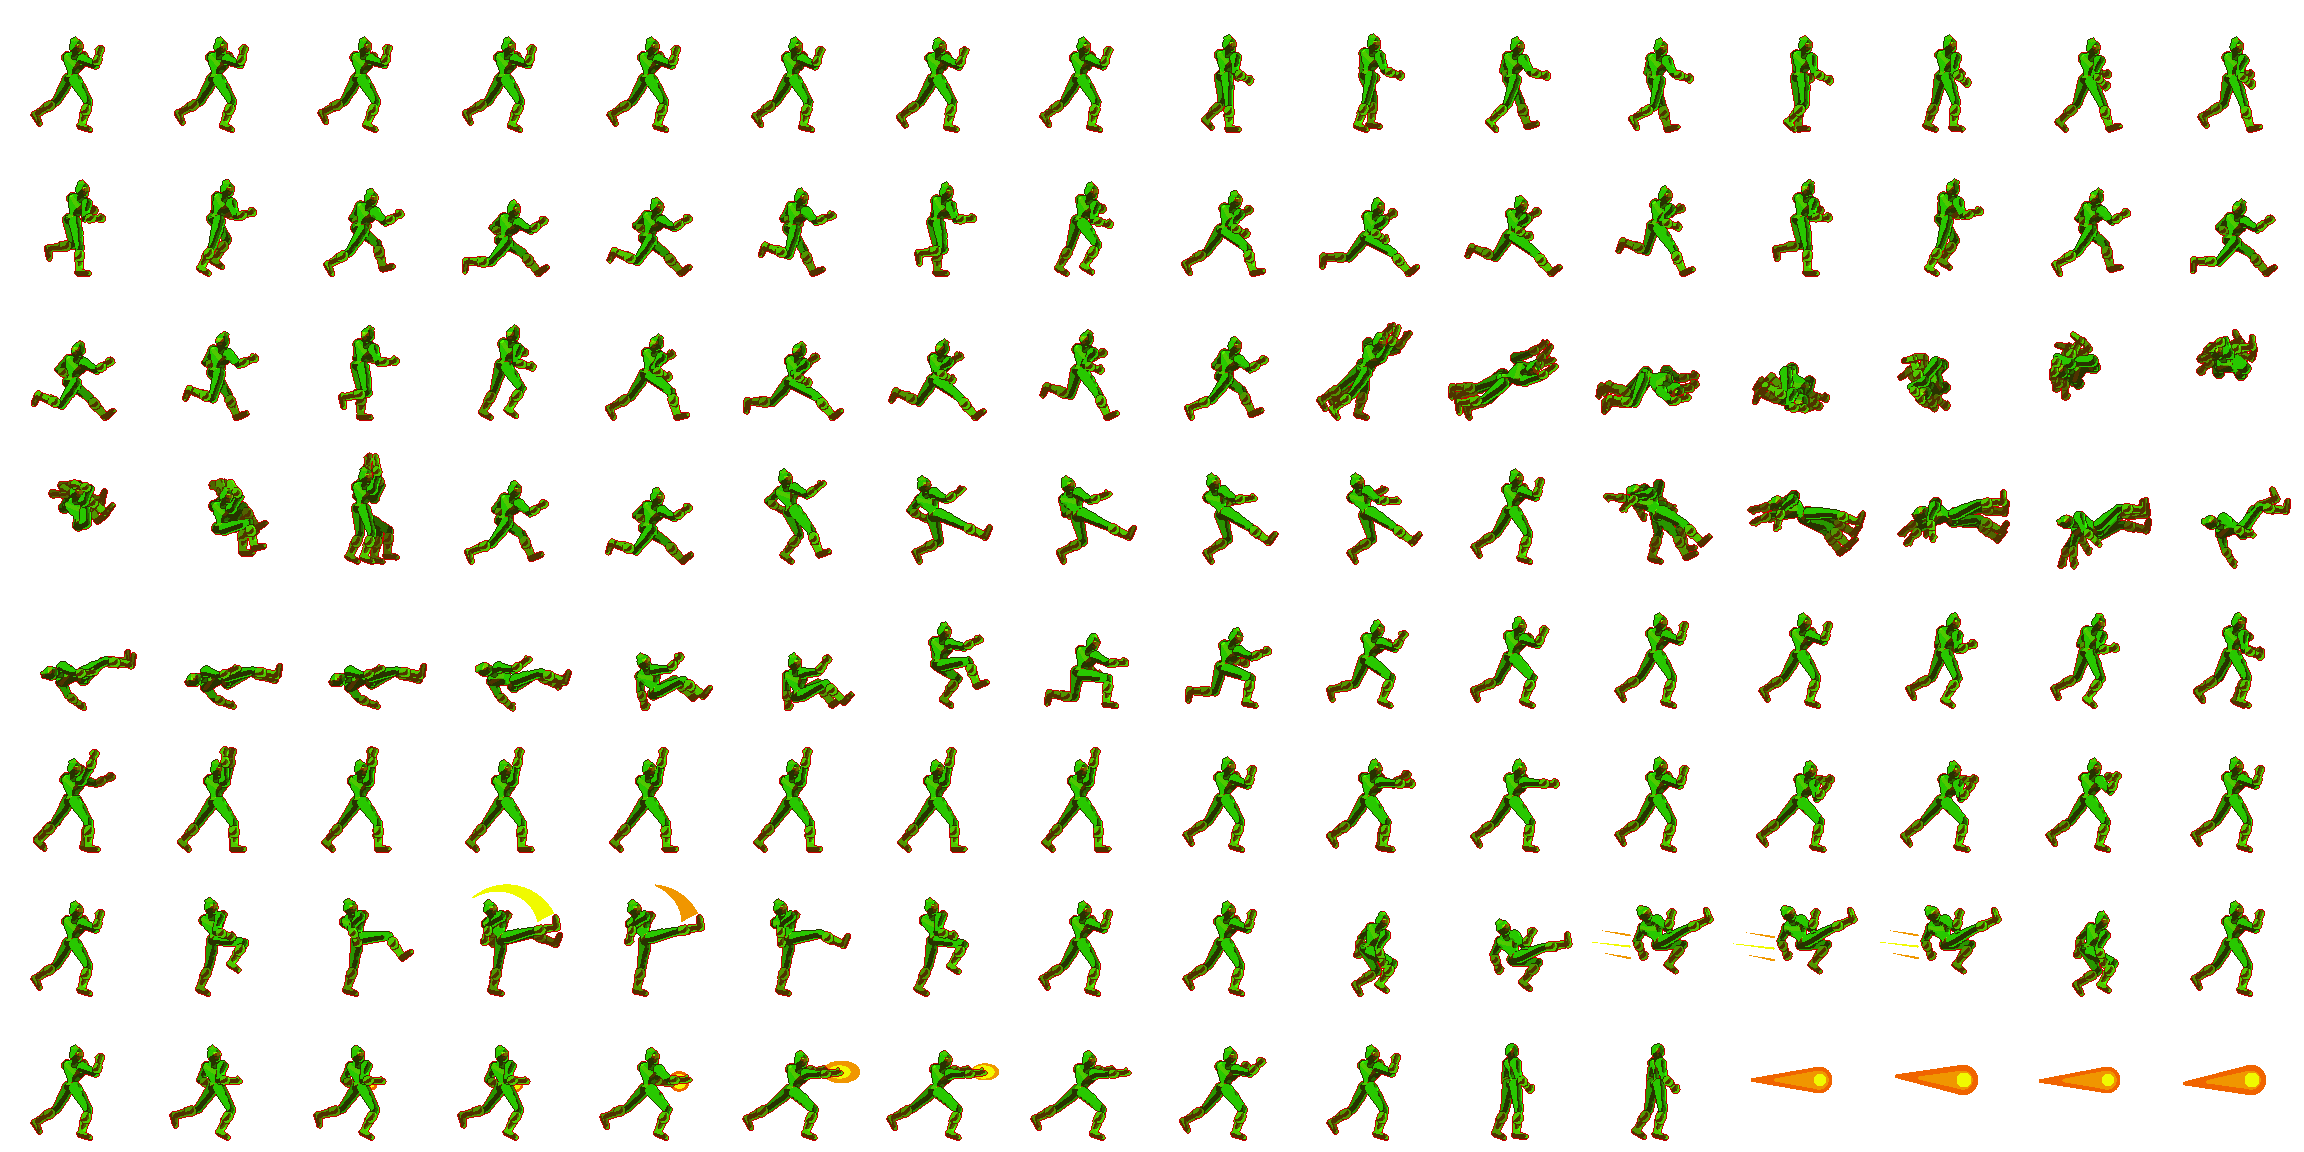
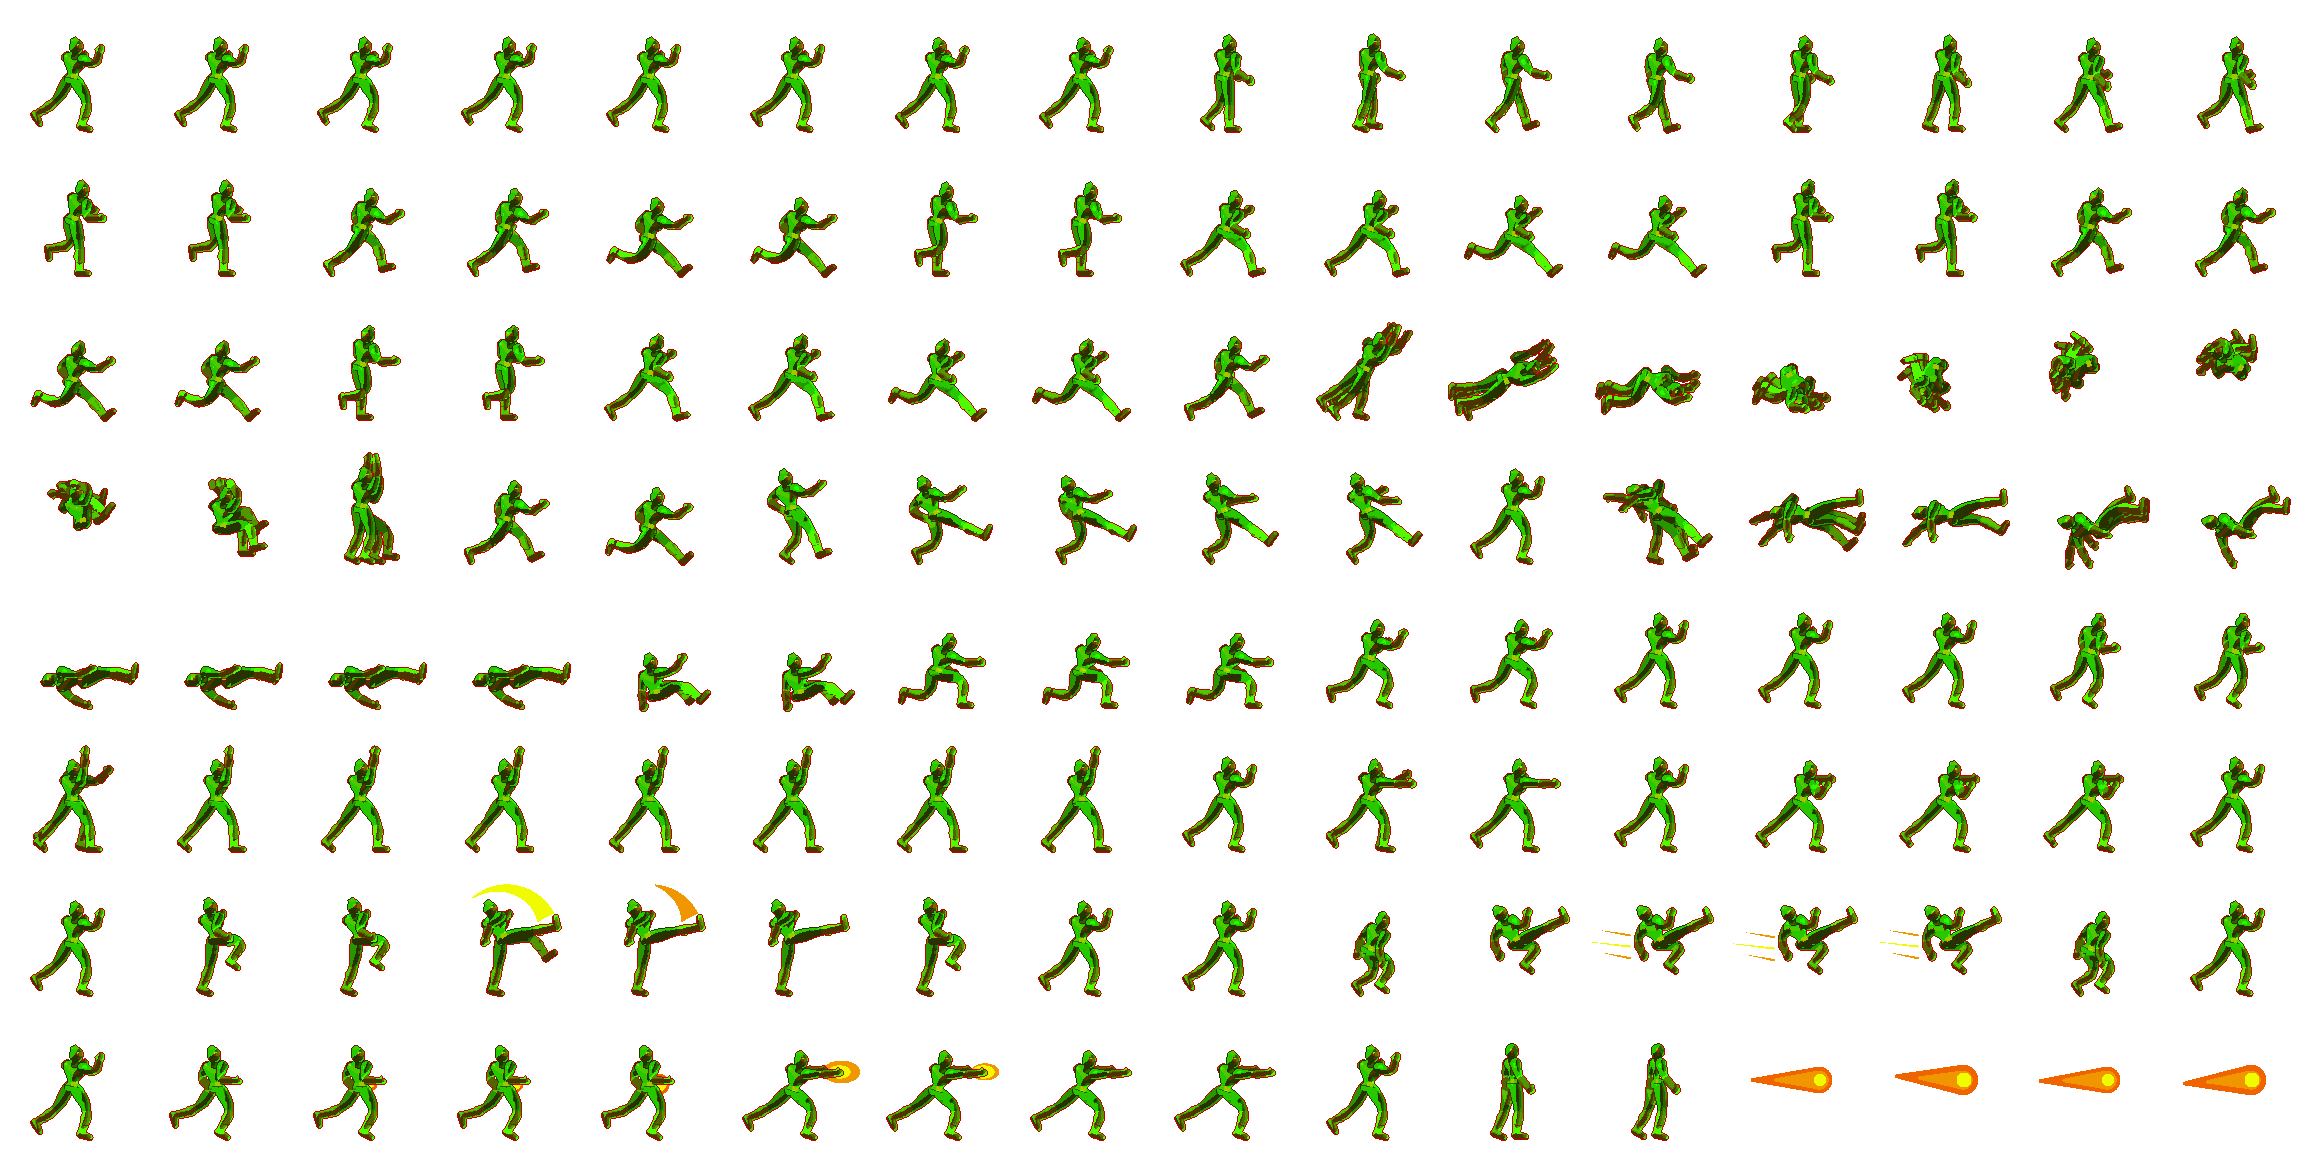
fix(effects): eroi a forma continua e fotogrammi tenuti, primo passo contro l'effetto "a blocchi"
Solo i tre fogli degli eroi (toku-hero-0/1/2.png); robot, kaiju, mano e
piede non sono toccati da questo commit.

- Ogni arto e' un'unica forma che si gonfia e si assottiglia (deltoide,
  bicipite, gomito, avambraccio; coscia, ginocchio, polpaccio, caviglia)
  lungo una linea arrotondata all'articolazione, non piu' due capsule
  incernierate.
- Busto e gamba vicina sono un solo contorno, dipinto una volta sola:
  niente piu' giunta fra bacino e coscia. Pettorali, addome e quadricipite
  sono modellati nel chiaroscuro. Stivali e guanti sono posati sulla
  forma (cambio di materiale, risvolto, suola) senza spezzarla.
- Niente piu' fotogrammi interpolati: pugni, calci, colpo d'energia,
  caduta, rialzata e posa usano il disegno chiave piu' vicino e lo
  tengono; corsa a 6 disegni tenuti due volte, attesa a 4. Gli indici dei
  fogli non cambiano, quindi gli shader restano uguali.

Limite dichiarato: le pose nascono ancora da uno scheletro per fotogramma
chiave. I contorni disegnati a mano posa per posa (bezier per ogni
fotogramma) richiesti dall'utente non sono ancora fatti.

diff --git a/scripts/gen-toku-sprites.py b/scripts/gen-toku-sprites.py
@@ -310,6 +310,11 @@ def keys(ks, t, f=ease):
     return ks[-1][1]
 
 
+def held(ks, t):
+    """The key drawing nearest in time: a frame is a pose that was drawn, never a blend of two."""
+    return min(ks, key=lambda k: abs(k[0] - t))[1]
+
+
 def run_pose(ph, look=1.0, amp=1.0):
     """Sprint (amp 1) or walk (amp ~0.45): contact, down, passing, up."""
     a, b = ph, ph + math.pi
@@ -430,46 +435,100 @@ def joints(p):
     return j
 
 
-def draw_leg(cv, j, s, dim):
+def tube(cv, pts, prof):
+    """A limb drawn as one form, not as two sticks hinged together: the line through pts is rounded at the
+    joint and the flesh follows prof (pairs of position 0..1 along it, half-width), so it swells and tapers."""
+    pts = [np.asarray(q, float) for q in pts]
+    for _ in range(2):
+        q = [pts[0]]
+        for a, b in zip(pts, pts[1:]):
+            q += [0.75 * a + 0.25 * b, 0.25 * a + 0.75 * b]
+        pts = q + [pts[-1]]
+    seg = [float(np.linalg.norm(b - a)) for a, b in zip(pts, pts[1:])]
+    ts = np.concatenate([[0.0], np.cumsum(seg)]) / max(sum(seg), 1e-6)
+    w = np.interp(ts, [t for t, _ in prof], [r for _, r in prof])
+    for k in range(len(pts) - 1):
+        if seg[k] > 1e-9:
+            cv.cap(pts[k], pts[k + 1], w[k], w[k + 1])
+    return cv
+
+
+LEG_W = [(0.0, 0.056), (0.13, 0.064), (0.32, 0.055), (0.47, 0.041), (0.53, 0.04), (0.66, 0.048), (0.84, 0.04), (1.0, 0.037)]   # thigh, knee, calf, ankle
+ARM_W = [(0.0, 0.05), (0.14, 0.05), (0.3, 0.041), (0.47, 0.033), (0.56, 0.034), (0.7, 0.04), (0.92, 0.033), (1.0, 0.033)]      # deltoid, biceps, elbow, forearm, wrist
+
+
+def leg_shape(cv, j, s):
+    """Adds a whole leg to the outline being drawn: thigh to toe, one line."""
     hip, kn, an, toe = j["hip" + s], j["kn" + s], j["an" + s], j["toe" + s]
     sd = unit(an - kn)
-    bk = np.array([sd[1], -sd[0]])                 # the back of the leg
-    th = unit(kn - hip)
-    mid = kn + sd * 0.085
-    cv.begin().cap(hip, kn, 0.062, 0.041).ell(hip + th * 0.1 - np.array([th[1], -th[0]]) * 0.01, 0.085, 0.05, math.atan2(th[1], th[0]))
-    cv.cap(kn, mid, 0.041, 0.038)
-    cv.paint(cv.mask(), SUIT, gloss=0.4, sig=5.5, dim=dim)
-    # boot: a chunky shaft with a calf, a turned-over cuff, a heel, a long foot, a dark sole
+    bk = np.array([sd[1], -sd[0]])
+    ft = unit(toe - an)
+    tube(cv, [hip, kn + bk * -0.006, an], LEG_W)
+    cv.disc(kn + sd * 0.1 + bk * 0.012, 0.04)                                     # the calf, behind
+    cv.cap(kn + sd * 0.078, kn + sd * 0.096, 0.049, 0.048)                        # the turned-over top of the boot
+    cv.disc(an + bk * 0.006, 0.039).cap(an + ft * 0.01, toe, 0.037, 0.028)
+    return cv
+
+
+def leg_trim(cv, j, s, lm):
+    """What the leg wears, laid over the form without breaking it: the boot, its cuff, its sole, the knee."""
+    hip, kn, an, toe = j["hip" + s], j["kn" + s], j["an" + s], j["toe" + s]
+    sd = unit(an - kn)
     ft = unit(toe - an)
     fn = np.array([ft[1], -ft[0]])
     if fn[1] > 0:
         fn = -fn
-    cv.begin().cap(mid, an, 0.044, 0.033).disc(mid + sd * 0.045 + bk * 0.012, 0.039).disc(an + bk * 0.006, 0.035).cap(an + ft * 0.01, toe, 0.034, 0.026)
-    bm = cv.mask()
-    cv.paint(bm, WHITE, gloss=0.7, sig=4.5, dim=dim)
+    cv.begin().cap(kn + sd * 0.085, an, 0.07, 0.06).cap(an - ft * 0.03, toe + ft * 0.03, 0.06, 0.05)
+    bm = cv.mask() * lm
+    cv.decal(bm, mat=WHITE, mul=1.32)
+    cv.begin().cap(kn + sd * 0.103, kn + sd * 0.104, 0.07, 0.07)
+    cv.decal(cv.mask() * (1.0 - shift(cv.mask(), -1, 0)) * bm, mul=0.5)           # under the cuff
     cv.begin().cap(an - ft * 0.03 + fn * 0.03, toe + ft * 0.02 + fn * 0.022, 0.011, 0.01)
-    cv.decal(cv.mask() * bm, mul=0.2)
-    cv.begin().cap(mid - sd * 0.008, mid + sd * 0.014, 0.05, 0.049)
-    cv.paint(cv.mask(), WHITE, gloss=0.6, sig=3.0, dim=dim, cast=0.6)
+    cv.decal(cv.mask() * bm, mul=0.2)                                             # sole
+    kf = np.array([-sd[1], sd[0]])
+    cv.begin().ell(kn + kf * 0.012, 0.02, 0.026, math.atan2(sd[1], sd[0]))
+    cv.decal(cv.mask() * lm * (1.0 - bm), mul=1.18)                               # the knee takes the light
 
 
-def draw_arm(cv, j, s, dim, opened):
+def arm_shape(cv, j, s, opened):
     sh, el, wr = j["sh" + s], j["el" + s], j["wr" + s]
     fd = unit(wr - el)
     fnm = np.array([-fd[1], fd[0]])
-    m2 = el + fd * 0.055
-    cv.begin().disc(sh, 0.057).cap(sh, el, 0.048, 0.034).cap(el, m2, 0.036, 0.033)
-    cv.paint(cv.mask(), SUIT, gloss=0.4, sig=4.5, dim=dim)
-    # glove: gauntlet, flared cuff, and either a square fist with a thumb or an open hand
-    cv.begin().cap(m2, wr, 0.036, 0.03)
+    tube(cv, [sh, el, wr], ARM_W)
+    cv.disc(sh, 0.053)
+    cv.cap(el + fd * 0.05, el + fd * 0.066, 0.042, 0.041)                         # the cuff of the glove
     if opened > 0.5:
-        cv.cap(wr, wr + fd * 0.065, 0.033, 0.025).cap(wr + fd * 0.01, wr + fd * 0.04 + fnm * 0.038, 0.017, 0.012)
+        cv.cap(wr, wr + fd * 0.068, 0.035, 0.026).cap(wr + fd * 0.01, wr + fd * 0.042 + fnm * 0.04, 0.018, 0.012)
     else:
-        cv.poly([wr - fnm * 0.036 - fd * 0.005, wr + fnm * 0.036 - fd * 0.005, wr + fnm * 0.036 + fd * 0.055, wr - fnm * 0.036 + fd * 0.055])
-        cv.disc(wr + fd * 0.026, 0.04).disc(wr + fd * 0.018 + fnm * 0.033, 0.018)
-    cv.paint(cv.mask(), WHITE, gloss=0.7, sig=4.0, dim=dim)
-    cv.begin().cap(m2 - fd * 0.008, m2 + fd * 0.014, 0.044, 0.042)
-    cv.paint(cv.mask(), WHITE, gloss=0.6, sig=3.0, dim=dim, cast=0.6)
+        cv.ell(wr + fd * 0.03, 0.047, 0.04, math.atan2(fd[1], fd[0])).disc(wr + fd * 0.02 + fnm * 0.034, 0.019)
+    return cv
+
+
+def arm_trim(cv, j, s, am):
+    sh, el, wr = j["sh" + s], j["el" + s], j["wr" + s]
+    fd = unit(wr - el)
+    ud = unit(el - sh)
+    cv.begin().cap(el + fd * 0.056, wr + fd * 0.09, 0.07, 0.07)
+    gm = cv.mask() * am
+    cv.decal(gm, mat=WHITE, mul=1.32)
+    cv.begin().cap(el + fd * 0.074, el + fd * 0.075, 0.07, 0.07)
+    cv.decal(cv.mask() * gm, mul=0.5)
+    cv.begin().ell(sh + ud * 0.02, 0.03, 0.036, math.atan2(ud[1], ud[0]))
+    cv.decal(cv.mask() * am * (1.0 - gm), mul=1.15)                               # deltoid
+
+
+def draw_leg(cv, j, s, dim):
+    leg_shape(cv.begin(), j, s)
+    lm = cv.mask()
+    cv.paint(lm, SUIT, gloss=0.4, sig=5.0, dim=dim)
+    leg_trim(cv, j, s, lm)
+
+
+def draw_arm(cv, j, s, dim, opened):
+    arm_shape(cv.begin(), j, s, opened)
+    am = cv.mask()
+    cv.paint(am, SUIT, gloss=0.4, sig=4.5, dim=dim)
+    arm_trim(cv, j, s, am)
 
 
 def draw_hero(cv, p, v):
@@ -480,13 +539,27 @@ def draw_hero(cv, p, v):
     pel = j["pel"]
     tw = 0.45 + 0.55 * abs(look)
     T = lambda x, y: pel + rt * x * tw + up * y * 0.94   # torso coordinates
-    draw_arm(cv, j, "A", 0.72, p["open"])
-    draw_leg(cv, j, "A", 0.72)
-    # torso: broad shoulders, deep chest, narrow waist, hips
+    # the far arm and leg: one drawing, a tone down
+    leg_shape(arm_shape(cv.begin(), j, "A", p["open"]), j, "A")
+    fm = cv.mask()
+    cv.paint(fm, SUIT, gloss=0.4, sig=5.0, dim=0.72)
+    arm_trim(cv, j, "A", fm)
+    leg_trim(cv, j, "A", fm)
+    # the body and the near leg are one outline: shoulders, chest, waist, hip, thigh, down to the toe.
+    # What tells chest from stomach from thigh is the modelling, not a seam
     cv.begin().poly([T(-0.116, 0.25), T(0.12, 0.25), T(0.09, 0.16), T(0.052, 0.07), T(0.07, 0.0), T(-0.067, 0.0), T(-0.049, 0.07), T(-0.085, 0.16)])
     cv.disc(T(-0.07, 0.235), 0.05).disc(T(0.075, 0.235), 0.052).disc(T(-0.034, 0.0), 0.042).disc(T(0.037, 0.0), 0.042).disc(T(0.005, 0.205), 0.09 * tw + 0.018)
     tm = cv.mask()
-    cv.paint(tm, SUIT, gloss=0.4, sig=8.0)
+    leg_shape(cv, j, "B")
+    bm = cv.mask()
+    kB, hB = j["knB"], j["hipB"]
+    qd = unit(kB - hB)
+    cv.begin().ell(T(-0.046, 0.205), 0.05, 0.036, math.atan2(rt[1], rt[0])).ell(T(0.05, 0.205), 0.05, 0.036, math.atan2(rt[1], rt[0]))   # pectorals
+    for y in (0.075, 0.108, 0.141):
+        cv.ell(T(-0.02, y), 0.019, 0.013, math.atan2(rt[1], rt[0])).ell(T(0.024, y), 0.019, 0.013, math.atan2(rt[1], rt[0]))           # the stomach, in rows
+    cv.ell(hB + qd * 0.11 + np.array([-qd[1], qd[0]]) * 0.012, 0.085, 0.03, math.atan2(qd[1], qd[0]))                                   # the thigh
+    cv.paint(bm, SUIT, gloss=0.4, sig=6.5, bump=blur(cv.mask(), 1.3), kb=2.2)
+    leg_trim(cv, j, "B", bm * (1.0 - tm))
     if v == 0:      # a chevron
         cv.begin().poly([T(-0.115, 0.29), T(0.012, 0.19), T(0.125, 0.29), T(0.125, 0.235), T(0.012, 0.135), T(-0.115, 0.235)])
         cv.decal(cv.mask() * tm, mat=WHITE)
@@ -506,7 +579,6 @@ def draw_hero(cv, p, v):
     cv.decal(cv.mask() * tm, mat=GOLD, spec=1.0)                                     # buckle
     cv.begin().cap(T(0.0, 0.26), j["head"] - hu * 0.035, 0.03, 0.028)
     cv.paint(cv.mask(), SUIT, gloss=0.2, sig=3.0, dim=0.55)                          # neck
-    draw_leg(cv, j, "B", 1.0)
     # helmet
     hr = np.array([hu[1], -hu[0]])
     HS = 0.85                                          # the helmet, a notch smaller than the body would make it
@@ -588,14 +660,14 @@ def build_heroes():
         fr = []
         add = lambda p, prev=None, fx=None: fr.append(hero_frame(p, v, prev, fx))
         for i in range(8):                                                     # 0-7 stance, breathing
-            br = math.sin(2 * math.pi * i / 8)
+            br = math.sin(2 * math.pi * (i // 2) / 4)                              # four drawings, each held twice
             add(dict(GUARD, kneeA=0.5 + 0.08 * br, kneeB=0.85 + 0.1 * br, elA=2.0 - 0.07 * br, shB=1.15 + 0.07 * br, lean=0.14 + 0.02 * br))
         for i in range(8):                                                     # 8-15 walk
             add(run_pose(2 * math.pi * i / 8, 1.0, 0.45))
         for i in range(12):                                                    # 16-27 run
-            add(run_pose(2 * math.pi * i / 12))
+            add(run_pose(2 * math.pi * (i // 2) / 6))                              # six drawings, each held twice
         for i in range(12):                                                    # 28-39 run, looking back
-            add(run_pose(2 * math.pi * i / 12, -1.0))
+            add(run_pose(2 * math.pi * (i // 2) / 6, -1.0))
         dv = [dive_pose(i / 11) for i in range(12)]                            # 40-51 flip
         for i, p in enumerate(dv):
             add(p, dv[i - 1] if 0 < i < 11 else None)
@@ -605,15 +677,15 @@ def build_heroes():
             for k in ("shA", "elA", "shB", "elB"):
                 p[k] = mixp(run_pose(1.9), SKID, ease(t * 1.4 - 0.4))[k]
             add(p)
-        kn = [keys(KNOCK, i / 7) for i in range(8)]                            # 58-65 knocked down
+        kn = [held(KNOCK, i / 7) for i in range(8)]                            # 58-65 knocked down
         for i, p in enumerate(kn):
             add(p, kn[i - 1] if 0 < i < 5 else None)
         for i in range(10):                                                    # 66-75 getting up
-            add(keys(GETUP, i / 9))
-        rc = [roll_call(v, i / 11) for i in range(12)]                         # 76-87 roll-call pose
+            add(held(GETUP, i / 9))
+        rc = [roll_call(v, round(i / 11 * 5) / 5) for i in range(12)]                         # 76-87 roll-call pose
         for i, p in enumerate(rc):
             add(p, rc[i - 1] if 3 <= i <= 6 else None)
-        pc = [keys(PUNCH, i / 7, snap) for i in range(8)]                      # 88-95 jab, cross
+        pc = [held(PUNCH, i / 7) for i in range(8)]                      # 88-95 jab, cross
         for i, p in enumerate(pc):
             def sw(cv, j, i=i):
                 if i in (1, 5):                                                # a short white streak behind the fist
@@ -621,7 +693,7 @@ def build_heroes():
                     cv.begin().cap(w - np.array([0.03, 0.0]), w - np.array([0.26, -0.01]), 0.03, 0.004)
                     cv.fx.append((cv.mask(), FX, 5))
             add(p, pc[i - 1] if i in (1, 5) else None, sw)
-        kc = [keys(KICK, i / 7, snap) for i in range(8)]                       # 96-103 roundhouse
+        kc = [held(KICK, i / 7) for i in range(8)]                       # 96-103 roundhouse
         for i, p in enumerate(kc):
             def sw(cv, j, i=i):
                 if i in (3, 4):                                                # the arc the boot has just cut
@@ -629,7 +701,7 @@ def build_heroes():
                     a1 = math.atan2(j["toeB"][1] - c[1], j["toeB"][0] - c[0])
                     cv.fx.append((arc(cv, c, 0.36, 0.56, a1 + (1.9 if i == 3 else 1.1), a1 + 0.08), FX, 5 if i == 3 else 3))
             add(p, kc[i - 1] if i == 3 else None, sw)
-        fk = [keys(FKICK, i / 7, snap) for i in range(8)]                      # 104-111 flying kick
+        fk = [held(FKICK, i / 7) for i in range(8)]                      # 104-111 flying kick
         for i, p in enumerate(fk):
             def sw(cv, j, i=i):
                 if 3 <= i <= 5:                                                # speed lines off the trailing side
@@ -637,7 +709,7 @@ def build_heroes():
                         cv.begin().cap((-0.28, dy + 0.02 * (i % 2)), (-0.28 - ln, dy + 0.02 * (i % 2) + 0.05), 0.012, 0.003)
                         cv.fx.append((cv.mask(), FX, 5 if k == 1 else 3))
             add(p, None, sw)
-        bl = [keys(BLAST, i / 9, snap) for i in range(10)]                     # 112-121 energy bolt
+        bl = [held(BLAST, i / 9) for i in range(10)]                     # 112-121 energy bolt
         for i, p in enumerate(bl):
             def sw(cv, j, i=i):
                 c = 0.5 * (j["wrA"] + j["wrB"]) + np.array([0.05, 0.0])
